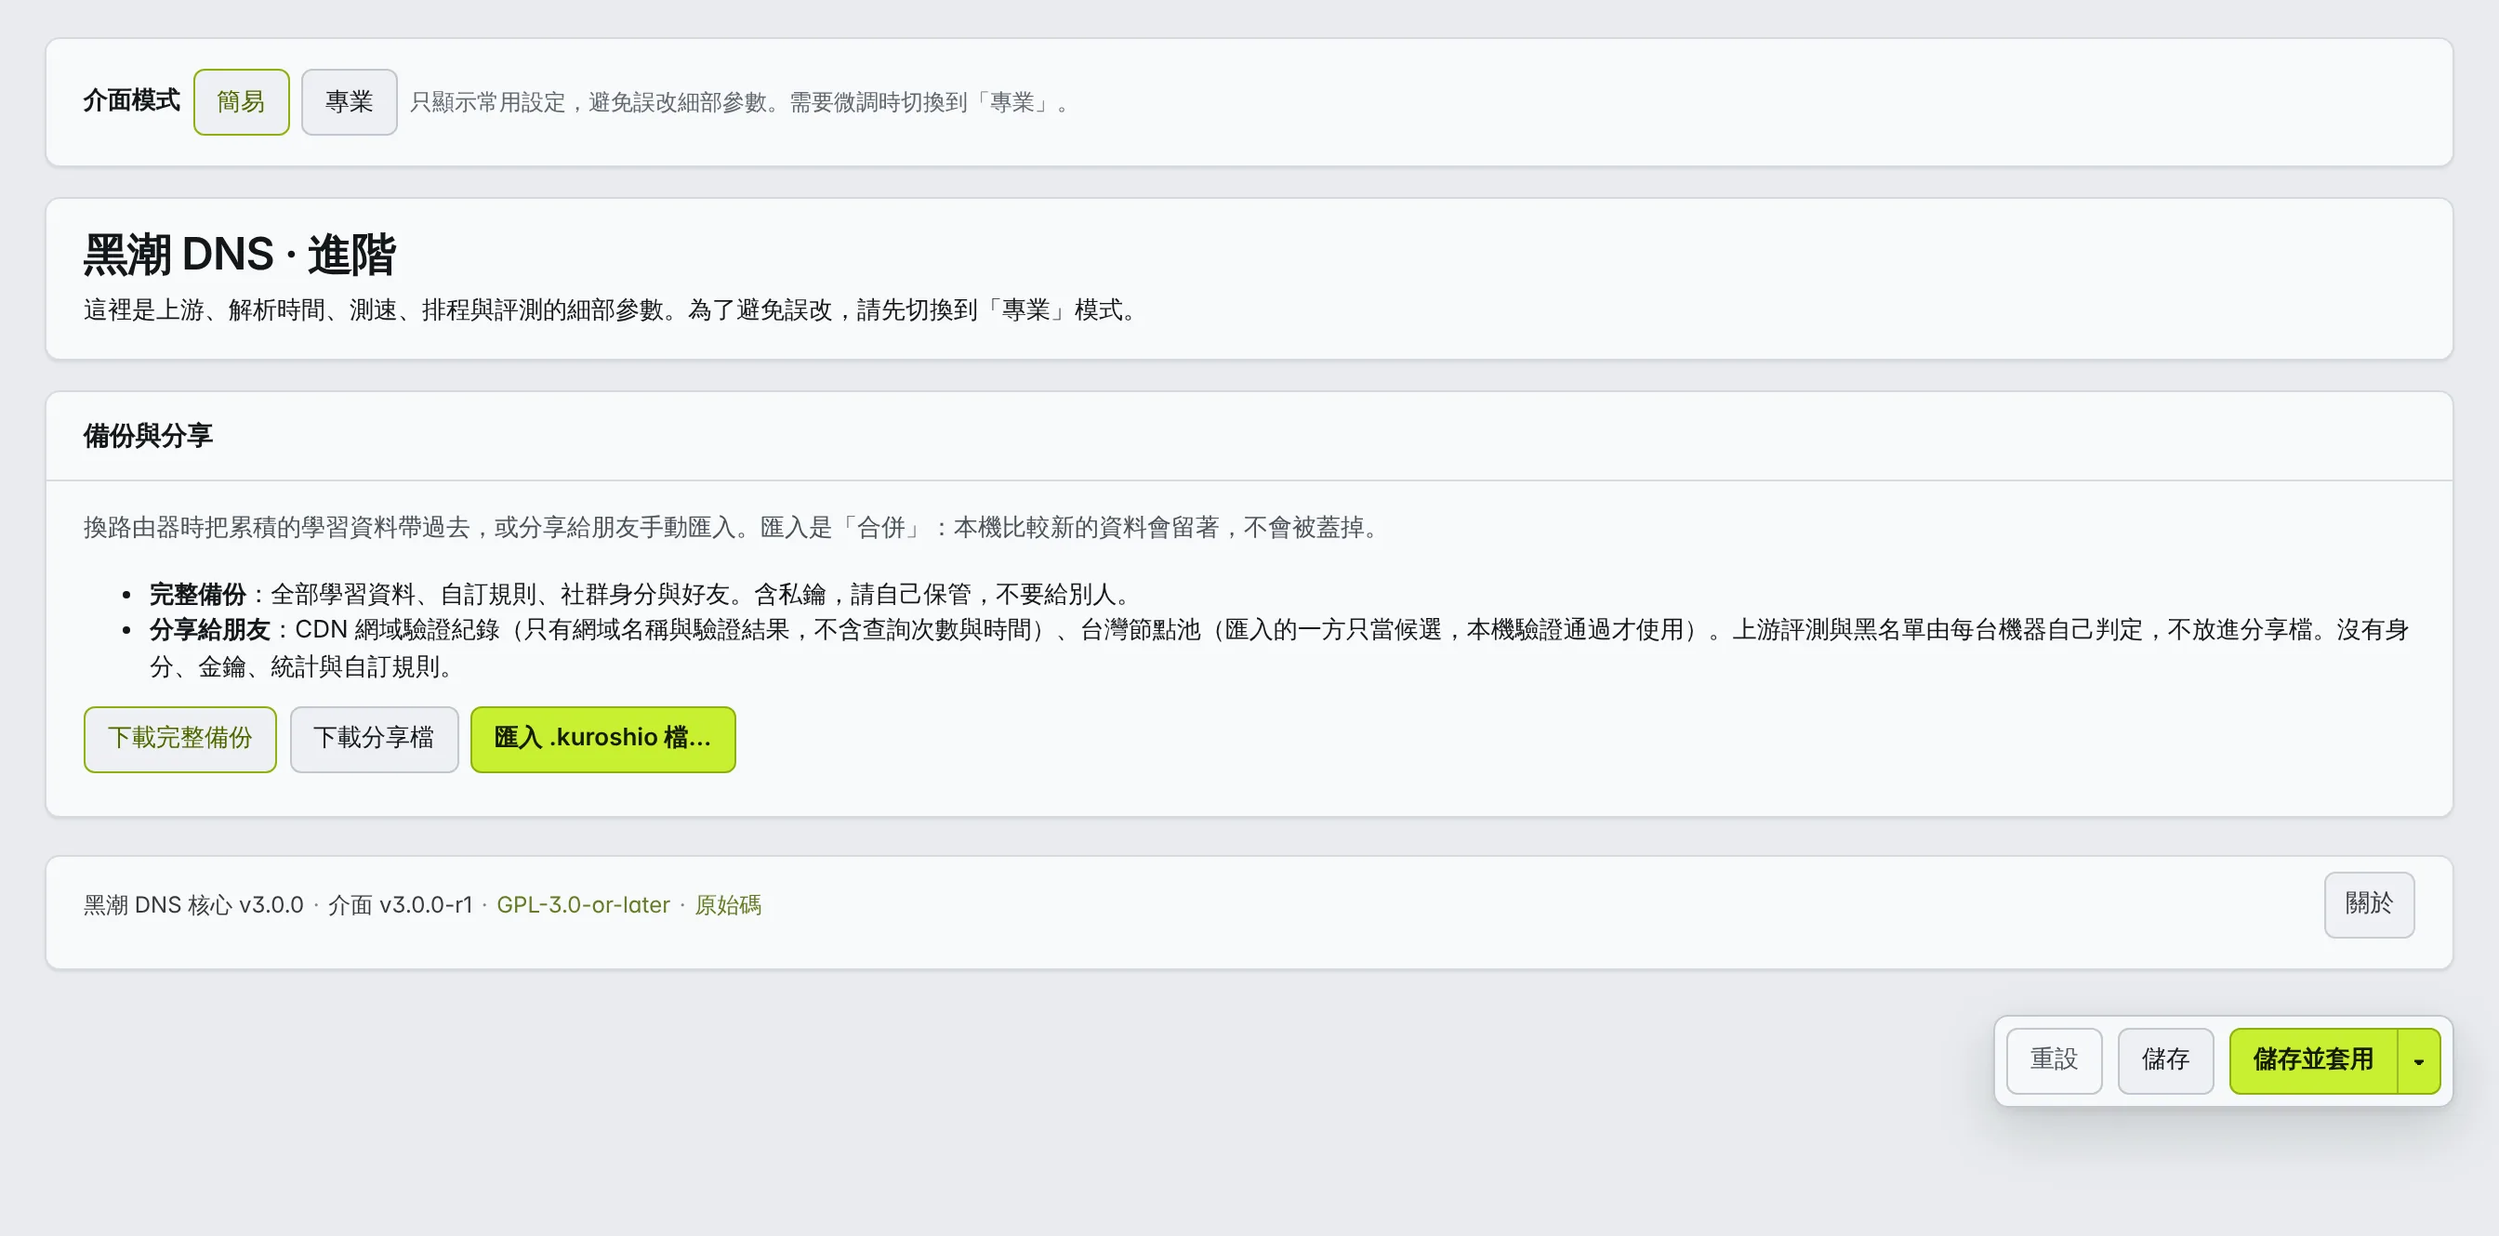
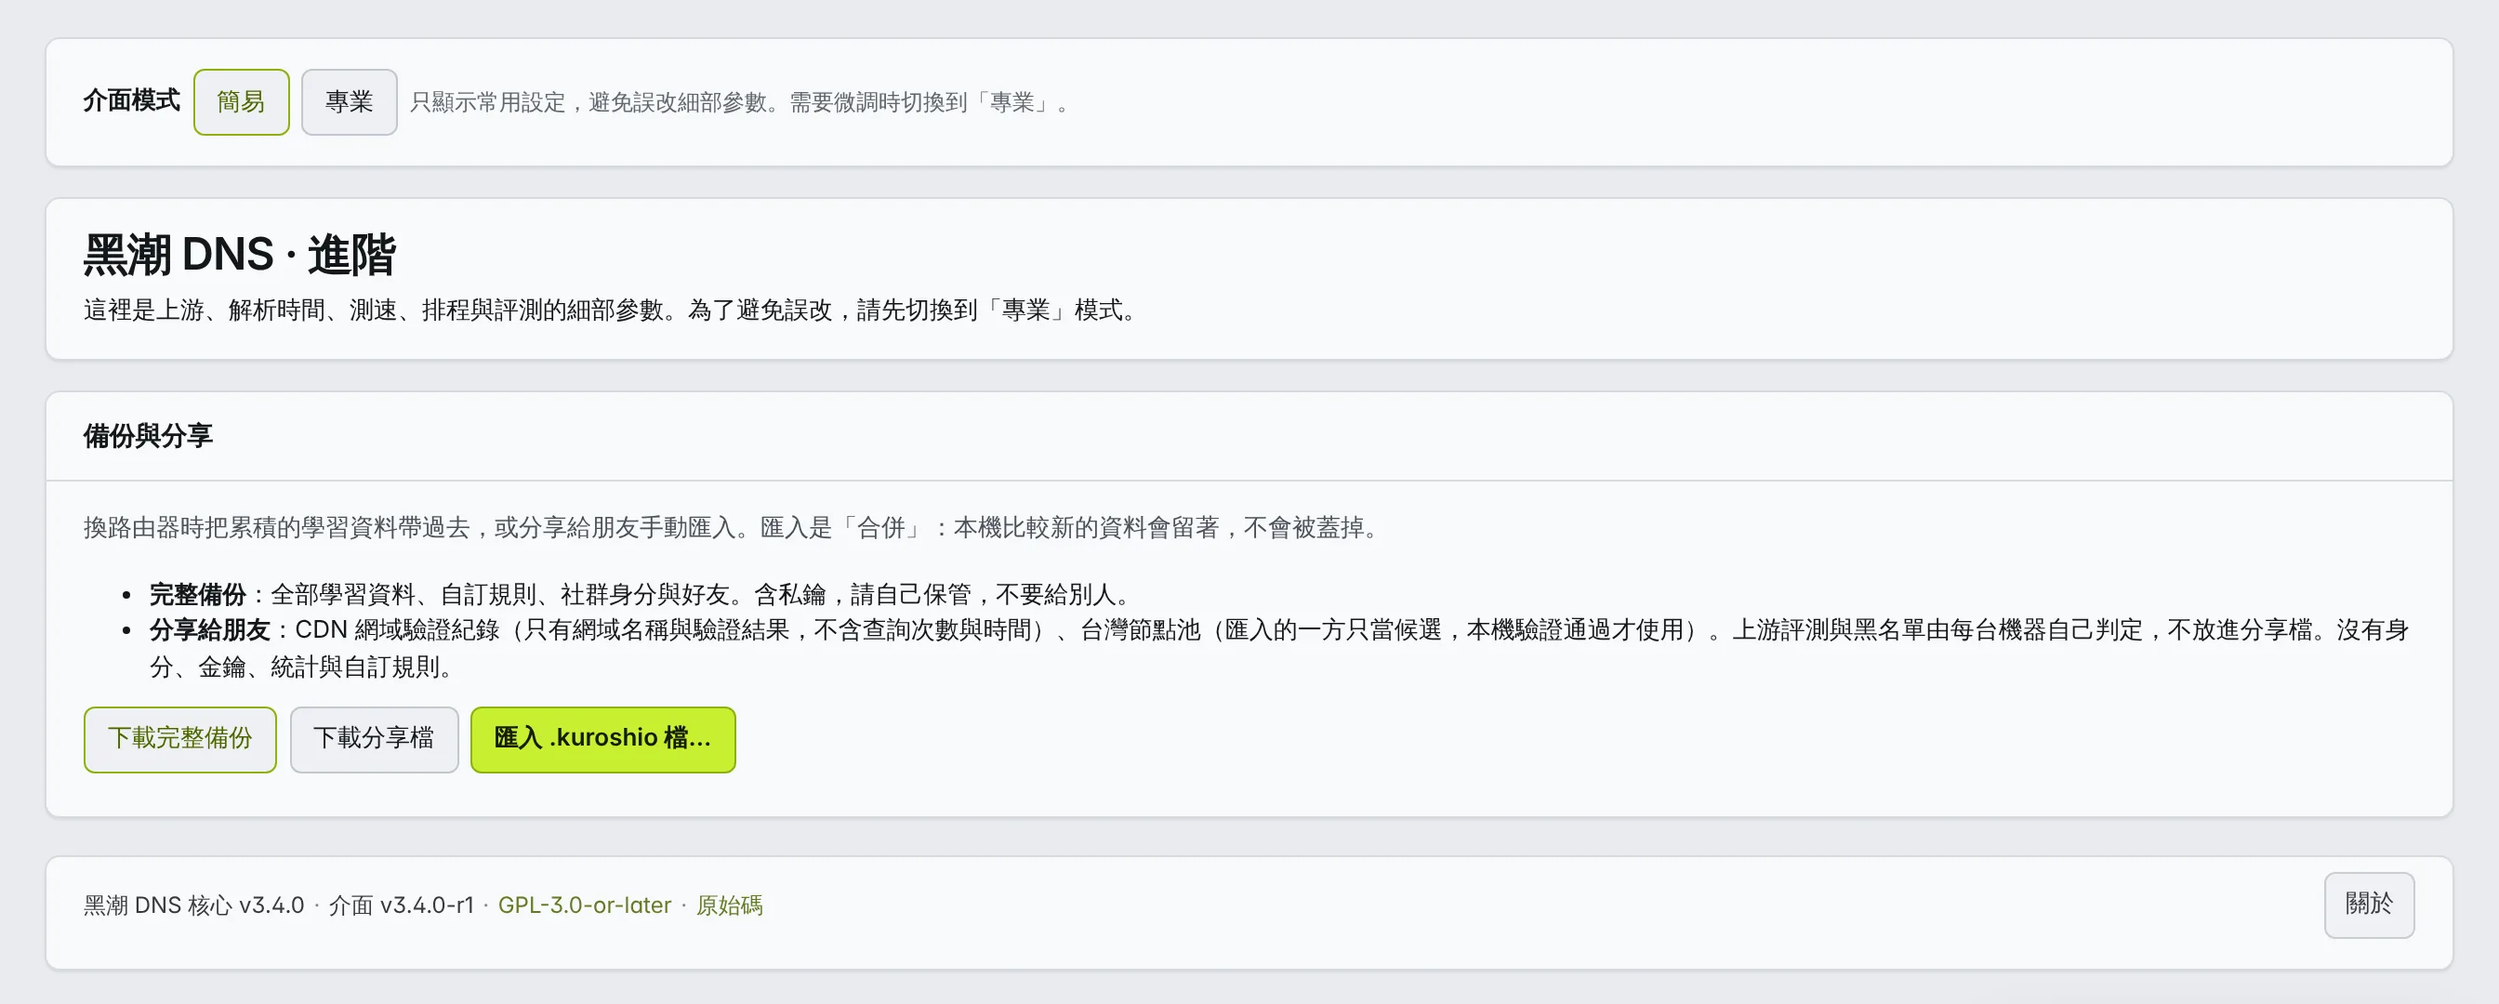
文件：README 與使用者文件更新到 3.4.0，重新截取 README 畫面
- README：新增「路徑檢查（3.3.6）」「串接模式（兩台黑潮，3.4.0）」兩節（兩個開關、
  兩邊都開才通訊、上游關閉時下游重複使用網路、共用結果與略過的工作、自動解除、最多 4 層、
  上游放行下游與「繞過防護」清單、狀態與指令、已知限制）；上游一節補上 3.3.6／3.3.7 的
  評測判斷、並行數表、背景補問、上游多樣性與 IPv6 判斷的設定名稱；資源一節補重新載入不斷線
  與補跑時段；指令補 notify trim、uci-migrate、--uci；安裝補升級與移植指南
- docs/docker.md、windows.md、hardware.md：串接與路徑檢查的說明、版本範例改成 3.4.0
- docs/integration.md：節點金鑰的預設位置改成跟程式一致
- docs/images：全部依 3.4.0 的畫面重截（Vantage 主題、2 倍解析度），新增 luci-chain、
  luci-path、luci-upstream
- luci-mock.js：/__mock/scene（readme-chain / readme-path / default）截圖用的情境，
  預設資料不變（luci-e2e 165 項通過）

Claude-Session: https://claude.ai/code/session_01Y76HWgWibjogZ9WNXKSdTR

diff --git a/openwrt/tools/luci-mock.js b/openwrt/tools/luci-mock.js
@@ -296,6 +296,55 @@ STATUS.jobs = { config: { 'dns-benchmark': { at: ['04:10'] }, 'filter-update': {
 STATUS.stats.topDomains = [{ name: 'www.youtube.com', count: 812 }, { name: 'i.ytimg.com', count: 640 }];
 STATUS.stats.topBlocked = [{ name: 'googleads.g.doubleclick.net', count: 120 }];
 STATUS.stats.topClients = [{ name: '192.168.1.23', count: 900 }, { name: 'fd12:3456::8', count: 400 }];
+// README 截圖用的情境：/__mock/scene?name=readme-chain（兩台黑潮串接中）/ readme-path（一般 DNS 被不明設備接走、DoT 被擋）/
+// default（回到上面的測試資料；luci-e2e.js 用的是 default）。記憶體正常、網路路徑與串接的說法互相一致
+const SCENE_DEFAULT = JSON.parse(JSON.stringify({ stats: STATUS.stats, cacheEntries: STATUS.cacheEntries, cdn: STATUS.cdn, upstreams: STATUS.upstreams, network: STATUS.network, filter: STATUS.filter, memory: STATUS.system.memory, jobs: STATUS.jobs, autoUpstreams: STATUS.autoUpstreams, listenersDetail: STATUS.listenersDetail }));
+const MEM_OK = Object.assign({}, SCENE_DEFAULT.memory, { state: 'normal', stateLabel: '正常', availKB: 118784, marginKB: 8192, headroomKB: 102400, psi: { someAvg10: 0.1, fullAvg10: 0 },
+    pollSec: 10, growth: true, floor: false, shed: [], freedBytes: 0, sizes: Object.assign({}, SCENE_DEFAULT.memory.sizes, { cacheEntries: 4210, cacheMax: 100000, cdnInRam: 4200, cdnOnDiskOnly: 0, filterListRules: 371204 }) });
+const LISTENERS_OK = [{ proto: 'dot', bind: '0.0.0.0', port: 853, ok: true, tls: true, error: null }, { proto: 'doh', bind: '0.0.0.0', port: 8443, ok: true, tls: true, error: null }];
+const FILTER_OK = { lists: 371204, custom: 12, domains: 352880, memoryBytes: 3400000, notice: null, unloaded: [] };
+const PATH_CHAIN = { enabled: true, policy: 'skip-plain', checkedAt: Date.now() - 40 * 60e3, summary: 'IPv6 不可用，一般 DNS 被路由器 192.168.1.1 上的黑潮（3.4.0）接走', warnings: [],
+    interceptor: { kind: 'kuroshio', version: '3.4.0', chain: { supported: true, allowDownstream: true, nodeId: 'a1b2c3d4e5f60718', fingerprint: CHAIN_FP, caps: ['share', 'reg'], error: null } },
+    interceptorText: '路由器 192.168.1.1 上的黑潮（3.4.0）', gateway: '192.168.1.1', blocked: [], tlsIntercept: null, offline: false };
+const PATH_BLOCKED = { enabled: true, policy: 'skip-plain', checkedAt: Date.now() - 25 * 60e3,
+    summary: 'IPv6 可用，一般 DNS 被路由器或業者的設備（不明）接走，DoT（853 埠） 被擋',
+    warnings: ['一般 DNS 被路由器或業者的設備（不明）接走：評測不測一般 DNS，一般 DNS 只當最後備援', '這條網路擋了 DoT（853 埠）：先不用這種上游，恢復後自動加回'],
+    interceptor: { kind: 'unknown' }, interceptorText: '路由器或業者的設備（不明）', gateway: '192.168.1.1', blocked: ['dot'], tlsIntercept: null, offline: false };
+const SCENES = {
+    'readme-chain': () => ({ chain: CHAIN.chained, network: { path: PATH_CHAIN }, autoUpstreams: { source: 'chain', generatedAt: '11-20 04:32' },
+        upstreams: [{ id: 'udp://192.168.1.1:53', type: 'udp', role: 'chain', ok: 18342, fail: 3, avgMs: 2.1, reason: null, region: null, pathBlocked: false, via: null },
+            { id: 'https://dns.example.net/dns-query', role: 'auto', reason: '最快', region: 'TW', ok: 0, fail: 0, avgMs: null },
+            { id: 'tls://dot.example.org', role: 'auto', reason: '覆蓋', region: 'JP', ok: 0, fail: 0, avgMs: null },
+            { id: 'https://1.1.1.1/dns-query', role: 'fallback', ok: 0, fail: 0, avgMs: null }],
+        jobs: { config: { 'dns-benchmark': { at: ['04:10'] }, 'cdn-pool': { at: ['05:20'] }, 'filter-update': { at: ['03:30'], weekdays: [1, 4] } },
+            state: { 'dns-benchmark': { lastCode: 0, lastEnd: Date.now() - 9 * 3600e3 }, 'cdn-pool': { lastCode: 0, lastEnd: Date.now() - 8 * 3600e3 }, 'filter-update': { lastCode: 0, lastEnd: Date.now() - 2 * 86400e3 } },
+            detail: { 'dns-benchmark': { text: '由上游黑潮提供，略過' }, 'cdn-pool': { text: '由上游黑潮提供，略過' } }, running: null } }),
+    'readme-path': () => ({ chain: { enabled: true, state: 'none', reason: null, text: '沒有偵測到上游黑潮', upstream: null, backupActive: false, retryAt: null, shared: null,
+            serving: Object.assign({}, CHAIN_SERVING_ON, { text: '提供資料給下游黑潮：目前沒有下游連上來', downstreams: [], share: { ready: true, requests: 0, chunks: 0, lastAt: null, cacheBytes: 0 } }) }, network: { path: PATH_BLOCKED }, autoUpstreams: { source: 'benchmark', generatedAt: '11-20 04:32' },
+        upstreams: [{ id: 'https://dns.example.net/dns-query', role: 'auto', reason: '最快', region: 'TW', ok: 9120, fail: 4, avgMs: 11.8 },
+            { id: 'h3://doh3.example.org/dns-query', role: 'auto', reason: '覆蓋', region: 'JP', ok: 3310, fail: 2, avgMs: 38.5 },
+            { id: 'tls://dot.example.com', role: 'auto', reason: '覆蓋', region: 'HK', ok: 0, fail: 0, avgMs: null, pathBlocked: true },
+            { id: 'udp://8.8.8.8:53', role: 'fallback', ok: 0, fail: 0, avgMs: null, via: 'interceptor' }],
+        jobs: { config: { 'dns-benchmark': { at: ['04:10'] }, 'filter-update': { at: ['03:30'], weekdays: [1, 4] } },
+            state: { 'dns-benchmark': { lastCode: 0, lastEnd: Date.now() - 9 * 3600e3 }, 'filter-update': { lastCode: 0, lastEnd: Date.now() - 2 * 86400e3 } }, running: null } })
+};
+function setScene(name) {
+    const d = JSON.parse(JSON.stringify(SCENE_DEFAULT));
+    if (name === 'default') {
+        Object.assign(STATUS, { stats: d.stats, cacheEntries: d.cacheEntries, cdn: d.cdn, upstreams: d.upstreams, network: d.network, filter: d.filter, jobs: d.jobs, autoUpstreams: d.autoUpstreams, listenersDetail: d.listenersDetail, chain: CHAIN.chained });
+        STATUS.system.memory = d.memory;
+        return true;
+    }
+    if (!SCENES[name]) return false;
+    const today = Object.assign({}, d.stats.today, { query: 18420, hit: 13262, hitRate: 72.0, blocked: 1540, blockedAds: 1180, blockedTelemetry: 320, blockedMalware: 40, prefetch: 820, stale: 12,
+        route: { cloudflare: { n: 900, acc: 612 }, cloudfront: { n: 420, acc: 251 }, fastly: { n: 130, acc: 38 } }, latency: { hit: { p50: 1, p95: 2 }, miss: { p50: 18, p95: 64 } } });
+    Object.assign(STATUS, { filter: FILTER_OK, listenersDetail: LISTENERS_OK, cacheEntries: 4210, stats: Object.assign({}, d.stats, { uptimeSec: 3 * 86400 + 5 * 3600, today: today }),
+        cdn: Object.assign({}, d.cdn, { domains: 3850, stats: { rewrites: 862, ecsRewrites: 140, crossRewrites: 22 } }) }, SCENES[name]());
+    STATUS.system.memory = MEM_OK;
+    STATUS.system.memAvailableMB = 116;
+    return true;
+}
+if (process.env.MOCK_SCENE) setScene(process.env.MOCK_SCENE);
 const API = { '/api/access': ACCESS, '/api/community/status': COMMUNITY_STATUS, '/api/community/peers': () => community.peers, '/api/community/events': COMMUNITY_EVENTS, '/api/community/invite': INVITE, '/api/status': () => STATUS, '/api/interfaces': () => IFACES, '/api/paths': () => PATHS, '/api/ddns': DDNS,
     '/api/dashboard': DASH, '/api/benchmark': () => BENCH, '/api/cdn/pools': () => POOLS, '/api/cdn/v6nodes': () => V6NODES, '/api/cdn/domains': DOMAINS_API,
     '/api/filter/check': query => (/ads\./.test(new URLSearchParams(query || '').get('name') || '') ? { action: 'block', rule: '||ads.example.com^', cat: 'ads', tier: 'list' } : { action: 'none' }),
@@ -487,6 +536,10 @@ http.createServer((req, res) => {
         if (!CHAIN[mode]) return send(404, 'text/plain; charset=utf-8', 'mode: chained / released / off');
         STATUS.chain = CHAIN[mode];
         return send(200, 'text/plain; charset=utf-8', mode);
+    }
+    if (url.pathname === '/__mock/scene') {
+        const name = url.searchParams.get('name') || 'default';
+        return setScene(name) ? send(200, 'text/plain; charset=utf-8', name) : send(404, 'text/plain; charset=utf-8', 'name: default / readme-chain / readme-path');
     }
     if (url.pathname === '/__mock/uci') {
         const [c, sct, o] = (url.searchParams.get('key') || '').split('.');

diff --git a/docs/windows.md b/docs/windows.md
@@ -254,7 +254,7 @@ kuroshio.exe query www.google.com -s quic://dns.example.net
 
 ## 6. 升級
 
-停止（`quit` 或 `service stop`）→ 用新版的 `kuroshio.exe` 和 `data\` 取代舊的 → 啟動。`config.json`、`state\`、`custom-rules.txt` 不用動。
+停止（`quit` 或 `service stop`）→ 用新版的 `kuroshio.exe` 和 `data\` 取代舊的 → 啟動。`config.json`、`state\`、`custom-rules.txt` 不用動，新設定的預設值就是建議值。每一版的變更見 [release-notes](release-notes/)。
 
 ## 常見問題
 
@@ -270,6 +270,8 @@ kuroshio.exe query www.google.com -s quic://dns.example.net
 | 憑證續期了但 HTTPS 還是舊的 | HTTP.sys / IIS 的綁定要系統管理員權限才能更新：cmd 用系統管理員執行，或改用服務。`kuroshio.exe httpsys cert` 立即同步 |
 | 53 埠被占用（日誌說監聽失敗） | Hyper-V 的預設交換器、網路連線共用（ICS）、其他 DNS 軟體會佔 53 埠：`netstat -ano \| findstr :53` 找出程式（最後一欄是 PID），或改 `listen.plain.port` |
 | cmd 視窗點一下之後畫面不動、DNS 也沒回應，按 Esc 才恢復 | 傳統主控台的「快速編輯模式」。3.1.0 起啟動時會自動關掉；以前的版本在標題列右鍵 →「內容」取消，或改用服務 |
+| 狀態頁「網路路徑」說「一般 DNS 被路由器 … 上的黑潮接走」 | 這台電腦接在跑黑潮、而且把 53 埠接走的路由器後面。兩台都是 3.4.0 以上時會自動串接（狀態頁的「串接」區塊顯示「串接中」），直接用路由器的評測結果與 CDN 節點，不用處理。不想串接：設定頁專業模式關掉「串接上游的黑潮」（`upstream.chain: false`），這台會自己重做評測、CDN 掃描、下載清單 |
+| 「網路路徑」說「一般 DNS 被路由器或業者的設備（不明）接走」「這條網路擋了 DoT」 | 路上有設備把 53 埠或 853 埠接走、擋掉。黑潮會自動避開：評測不測一般 DNS、先不用被擋的協定；`kuroshio.exe check-path` 可以立刻再檢查一次 |
 | 啟動失敗、不知道設定哪裡錯 | `kuroshio.exe check-config config.json`；設定頁存了一份啟動不了的設定時，程式會自動退回上一份能用的 |
 
 更多細節：[規格 07 · Windows 版](spec/07-windows.md)。

diff --git a/docs/docker.md b/docs/docker.md
@@ -109,11 +109,17 @@ docker exec kuroshio kuroshio url -c /config/config.json
 docker compose pull && docker compose up -d
 ```
 
-`/config` 不受影響。想固定在某個版本，把 `latest` 改成例如 `3.0.2`；只想收 3.0.x 的修正就用 `3.0`。
+`/config` 不受影響。想固定在某個版本，把 `latest` 改成例如 `3.4.0`；只想收 3.4.x 的修正就用 `3.4`。
 
 ### 健康檢查
 
 映像檔內建 `HEALTHCHECK`（`kuroshio health`：明文 DNS 有在回答就是 healthy），`docker ps` 看得到狀態。停止時送 SIGTERM，黑潮 DNS 會寫出快照再結束，所以 `stop_grace_period` 給 15 秒。
+
+### 主路由器也跑黑潮時（串接）
+
+NAS 或小主機接在一台跑黑潮、而且把 53 埠接走（積極劫持）的路由器後面時，容器裡的黑潮會在路徑檢查時認出「一般 DNS 被路由器上的黑潮接走」。兩台都是 3.4.0 以上時自動串接：直接用路由器算好的評測結果與 CDN 節點池，容器裡不再自己跑每日評測與 CDN 掃描。不用設定；`docker exec kuroshio kuroshio chain status` 看狀態，設定頁「狀態」分頁的「串接」區塊也看得到。不想串接就在 `config.json` 加 `"upstream": { "chain": false }`（會自己重做評測、CDN 掃描、下載清單，重複使用網路）。細節見 [README 的「串接模式」](../README.md#串接模式兩台黑潮340)。
+
+host 網路下沒有 IPv6 路由時，路徑檢查會自動只用 IPv4 連上游；確定不用 IPv6 也可以設 `"upstream": { "ipv6": "0" }`。
 
 ### 日誌裡常見、可以忽略的警告
 
@@ -259,7 +265,7 @@ Releases 的檔案與映像檔都有 GitHub 的建置來源證明（build proven
 
 ```sh
 gh attestation verify kuroshio-linux-x86_64-unknown-linux-musl.tar.gz --repo candy999/kuroshio-dns
-gh attestation verify oci://ghcr.io/candy999/kuroshio-dns:3.0.2 --repo candy999/kuroshio-dns
+gh attestation verify oci://ghcr.io/candy999/kuroshio-dns:3.4.0 --repo candy999/kuroshio-dns
 ```
 
 ## 6. 自己建置映像檔

diff --git a/docs/hardware.md b/docs/hardware.md
@@ -229,6 +229,7 @@
 - **是什麼**：為台灣網路環境打造的 Padavan 韌體，用聯發科原廠的閉源無線與硬體 NAT 驅動，比 OpenWrt 輕、穩定，介面是台灣中文，已經在 Newifi D3 實機整合黑潮 DNS
 - **正式維護**（每次修改都編譯、有實機測試）：Newifi D3（新路由 3）、小米 CR6608（CR6606 / CR6609 理論上也適用）
 - **社群支援**（可以自己用 GitHub Actions 編譯，維護者沒有實機測試）：紅米 / 小米 AC2100、小米 4A 千兆版、小米 R3G / R3P / 路由器 4、斐訊 K2P、D-Link DIR-878 / DIR-882、ASUS RT-AC85P、Linksys EA7500、Netgear R6800 / R7450、JCG Q20 / Y2、京東雲 RE-SP-01B / RE-CP-02、H3C TX1801 Plus、中興 E8820S 等 50 多台，完整清單見 padavan-tw 的 README
+- **接在另一台黑潮後面**：MT7621 沒有 AES 指令，加密 DNS 比較吃 CPU。主路由器也跑黑潮（3.4.0 以上）、而且把 53 埠接走時，兩台會自動串接：這台直接問主路由器、用它的評測結果與 CDN 節點池，不再自己跑每日評測與 CDN 掃描（見 [README 的「串接模式」](../README.md#串接模式兩台黑潮340)）
 - **注意**：只支援 MT7621；Linux 4.4 核心已經停止官方維護，不要把管理頁面或 SSH 開放到 WAN
 - MT7620 / MT7628 這類更低階、記憶體只有 64 MB 的機器，padavan-tw 和黑潮 DNS 都不支援，建議換一台 💲 的 MT7981
 

diff --git a/docs/integration.md b/docs/integration.md
@@ -405,7 +405,7 @@ KUROSHIO_ON_CONFIG_WRITE="mtd_storage.sh save" kuroshio run --uci
 ### 怎麼運作（整合者需要知道的部分）
 
 - 通道是一般 DNS 的 CHAOS TXT（`chain.kuroshio` 底下），只在路徑檢查發現「一般 DNS 被上游的黑潮接走」時才用。上游只回答區網（私有）來源的 UDP / TCP 53，其他一律 `REFUSED`。
-- 身分用節點金鑰的簽章驗證（跟社群共用同一把金鑰，放在 `community.dir`，預設是設定目錄的 `community/`）。金鑰第一次需要時才建立，所以剛裝好、還沒有下游來問時，上游角色的指紋是 `null`。
+- 身分用節點金鑰的簽章驗證（跟社群共用同一把金鑰，放在 `community.dir`：預設是設定檔旁邊的 `state/community/`，OpenWrt 是 `/etc/kuroshio/community/`）。金鑰第一次需要時才建立，所以剛裝好、還沒有下游來問時，上游角色的指紋是 `null`。
 - 上游換了金鑰（重新安裝、換機器）：下游自動改綁新的金鑰，`/api/status` 的 `warnings` 留一行提醒 24 小時，狀態頁顯示新舊指紋。
 - 最多 4 層（A ← B ← C ← D）；會形成迴圈時不串接。
 - 串接狀態跨重新載入（SIGHUP、設定頁存檔）保留，不跨重開機。`kuroshio notify wan-changed` 會先離開串接，路徑檢查後自動接回。
